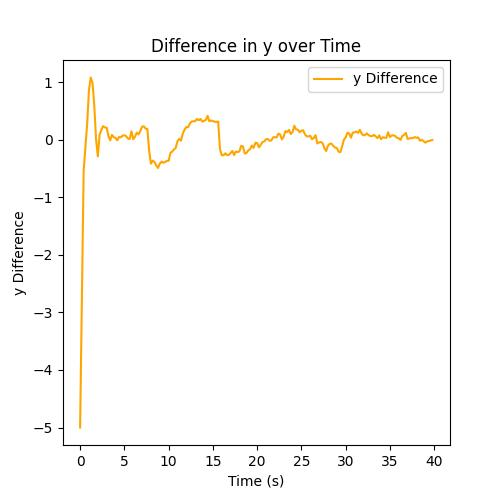
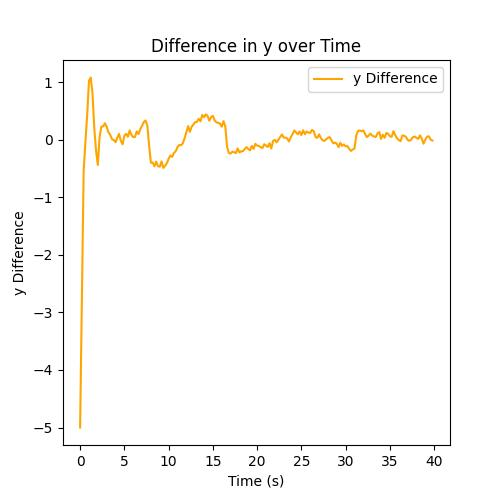
update kf_test

Changed region(s): [[0.3, 0.21, 0.87, 0.36], [0.15, 0.15, 0.3, 0.33]]

diff --git a/Test_func/test_kf_carla.py b/Test_func/test_kf_carla.py
@@ -1,5 +1,12 @@
-##change map to Town06
-#python config.py --map Town06
+## change map to Town06
+import subprocess
+# Command to run your script
+command = (
+    r'cd C:\Users\A490243\CARLA\CARLA_Latest\WindowsNoEditor\PythonAPI\util && '
+    r'python config.py --map Town06')
+# Run the command
+subprocess.run(command, shell=True)
+# ----------------- Importing Libraries ------------------------
 import time
 import numpy as np
 import sys
@@ -17,14 +24,22 @@ from util.utils import get_state, setup_carla_environment,plot_paths,plot_diff
 # ----------------- Carla Settings ------------------------
 #! set the initial position of the car and truck
 import carla
-car,truck = setup_carla_environment()
+car,truck = setup_carla_environment(Sameline_ACC=False)
 velocity1 = carla.Vector3D(10, 0, 0)
 velocity2 = carla.Vector3D(15, 0, 0)
+
+#get initial state of truck and car,x,y,psi,v, shown seoerately
+#! uncomment the following lines to get the initial state of the car and truck
+#------------------get the initial state of the car and truck---------------------
+# time.sleep(1)
+# truck_state = get_state(truck)
+# car_state = get_state(car)
+# print("truck_state is:","x:",truck_state[0],"y:",truck_state[1],"psi:",truck_state[2],"v:",truck_state[3])
+# print("car_state is:","x:",car_state[0],"y:",car_state[1],"psi:",car_state[2],"v:",car_state[3])
+# exit()
+#---------------------------------------------------------------------------------
 car.set_target_velocity(velocity2)
 car.apply_control(carla.VehicleControl(throttle=0.0, steer=0.5, brake=0))
-
-
-
 # System initialization 
 dt = 0.2
 N=10
@@ -39,7 +54,7 @@ F_x_ADV  = car_model.getIntegrator()
 vx_init_ego = 10   
 car_model.setInit([124,143.318],vx_init_ego)
 x_iter = DM(int(nx),1)
-#get initial state and input
+# get initial state and input
 x_iter[:],u_iter = car_model.getInit()
 
 # ----------------- Ego Vehicle obsver(kalman filter) Settings ------------------------
@@ -48,7 +63,7 @@ F,B=car_model.calculate_AB(dt,init_flag=1)
 G=np.eye(nx)*dt**2   #process noise matrix, x_iter=F@x_iter+B@u_iter+G@w
 H=np.eye(nx)   #measurement matrix, y=H@x_iter
 
-#initial state and control input
+# initial state and control input
 print(x_iter)
 x0=x_iter+5
 print(x0)
@@ -64,7 +79,7 @@ ekf=kalman_filter(F,B,H,x0,P0,Q0,R0)
 
 
 
-#list to store the true and estimated state
+# list to store the true and estimated state
 true_x = []
 true_x.append(float(x_iter[0]))
 true_y = []

diff --git a/util/utils.py b/util/utils.py
@@ -28,12 +28,16 @@ def get_state(vehicle):
 
     return np.array([[x, y, psi, v]]).T
 
-def setup_carla_environment():
+def setup_carla_environment(Sameline_ACC=True):
     """
     Sets up the CARLA environment by connecting to the server, 
     spawning vehicles, and setting their initial states.
     Returns the car and truck actors.
     """
+    '''
+    Sameline_ACC=TRUE: the car and truck are in the same lane, and the truck trakcing the car
+    Sameline_ACC=FALSE: the car and truck are in the different lane
+    '''
     client = carla.Client('localhost', 2000)
     world = client.get_world()
     bp_lib = world.get_blueprint_library()
@@ -42,17 +46,29 @@ def setup_carla_environment():
     for actor in world.get_actors().filter('vehicle.*'):
         actor.destroy()
 
-    # Spawn Tesla Model 3
-    car_bp = bp_lib.find('vehicle.tesla.model3')
-    car_spawn_point = carla.Transform(carla.Location(x=124, y=143.318146, z=0.3))
-    car = spawn_vehicle(world, car_bp, car_spawn_point)
+    if Sameline_ACC :
+        # Spawn Tesla Model 3
+        car_bp = bp_lib.find('vehicle.tesla.model3')
+        car_spawn_point = carla.Transform(carla.Location(x=124-100, y=143.318146, z=0.3))
+        car = spawn_vehicle(world, car_bp, car_spawn_point)
 
-    # Spawn Firetruck
-    truck_bp = bp_lib.find('vehicle.carlamotors.firetruck')
-    truck_spawn_point = carla.Transform(car_spawn_point.location + carla.Location(y=3.5, x=-100))
-    truck = spawn_vehicle(world, truck_bp, truck_spawn_point)
+        # Spawn Firetruck
+        truck_bp = bp_lib.find('vehicle.carlamotors.firetruck')
+        truck_spawn_point = carla.Transform(carla.Location(x=124-75, y=143.318146, z=0.3))
+        truck = spawn_vehicle(world, truck_bp, truck_spawn_point)
+        return car, truck
+    else:
+        # Spawn Tesla Model 3
+        car_bp = bp_lib.find('vehicle.tesla.model3')
+        car_spawn_point = carla.Transform(carla.Location(x=124, y=143.318146, z=0.3))
+        car = spawn_vehicle(world, car_bp, car_spawn_point)
 
-    return car, truck
+        # Spawn Firetruck
+        truck_bp = bp_lib.find('vehicle.carlamotors.firetruck')
+        truck_spawn_point = carla.Transform(car_spawn_point.location + carla.Location(y=3.5, x=-100))
+        truck = spawn_vehicle(world, truck_bp, truck_spawn_point)
+
+        return car, truck
 
 def spawn_vehicle(world, blueprint, spawn_point):
     """

diff --git a/Controller/simple_MPC.py b/Controller/simple_MPC.py
@@ -1,0 +1,49 @@
+# here is the simple MPC controller for the trailing vehicle
+# this file is used to test the acc controller
+import sys
+CARLA_PATH = 'C:\\Users\\A490243\\CARLA\\CARLA_Latest\\WindowsNoEditor\\PythonAPI\\carla'
+THESIS_PATH = 'C:\\Users\\A490243\\Desktop\\Master_Thesis'
+sys.path.extend([CARLA_PATH, THESIS_PATH])
+from casadi import *
+from  Autonomous_Truck_Sim.controllers import makeController, makeDecisionMaster
+from  Autonomous_Truck_Sim.scenarios import trailing
+from vehicleModel.vehicle_model import car_VehicleModel
+class trailing_controller:
+    """here is the simple MPC controller for the trailing vehicle
+    vehicle: the vehicle model class
+    N: the prediction horizon
+    opts: the options for the controller
+        {"version" : "trailing", "solver": "ipopt", "integrator":"rk"}
+    dt: the time step for the controller
+    """
+    def __init__(self,vehicle,N,opts,dt) -> None:
+        self.vehicle = vehicle
+        self.opts = opts
+        # Get constants
+        # self.Nveh = self.traffic.getDim()
+        self.N = N
+        self.vehWidth,_,_,_ = self.vehicle.getSize()
+        self.nx,self.nu,self.nrefx,self.nrefu = self.vehicle.getSystemDim()
+        print(self.nx,self.nu,self.nrefx,self.nrefu)
+        # self.roadMin, self.roadMax, self.laneCenters = self.scenario.getRoad()
+        self.opts = opts
+        #create Opti Stack
+        self.opti = Opti()
+        pass
+# System initialization 
+dt = 0.2                    # Simulation time step (Impacts traffic model accuracy)
+f_controller = 5            # Controller update frequency, i.e updates at each t = dt*f_controller
+N =  12                     # MPC Horizon length
+dt_MPC = dt*f_controller    # Controller time step
+# ----------------- Ego Vehicle Dynamics and Controller Settings ------------------------
+vehicleADV = car_VehicleModel(dt,N)
+
+vehWidth,vehLength,L_tract,L_trail = vehicleADV.getSize()
+nx,nu,nrefx,nrefu = vehicleADV.getSystemDim()
+
+# Integrator
+int_opt = 'rk'
+vehicleADV.integrator(int_opt,dt)
+F_x_ADV  = vehicleADV.getIntegrator()
+opts3 = {"version" : "trailing", "solver": "ipopt", "integrator":"rk"}
+MPC_trailing = trailing_controller(vehicleADV,N,opts3,dt_MPC)

diff --git a/Autonomous_Truck_Sim/controllers.py b/Autonomous_Truck_Sim/controllers.py
@@ -175,7 +175,7 @@ class makeController:
             self.opti.set_value(self.traffic_x,traffic_x)
             self.opti.set_value(self.traffic_y,traffic_y)
             self.opti.set_value(self.traffic_sign,traffic_sign)
-            self.opti.set_value(self.traffic_shift,traffic_shift)e
+            self.opti.set_value(self.traffic_shift,traffic_shift)
             self.opti.set_value(self.traffic_flip,traffic_flip)
             self.opti.set_value(self.x0,x_iter)
 

diff --git a/Autonomous_Truck_Sim/scenarios.py b/Autonomous_Truck_Sim/scenarios.py
@@ -59,7 +59,10 @@ class trailing:
         laneCenters = [self.laneWidth/2,self.laneWidth*3/2,-self.laneWidth*1/2]
 
         return roadMin, roadMax, laneCenters
-
+    #!!!!!!!!!!!!!!!!
+    #FIXME: Here, notice to change when implement in CARLA
+    #truck_state is: x: [24.] y: [146.81814575] psi: [0.] v: [0]
+    #!!!!!!!!!!!!!!!     
     def setEgoLane(self):
         x = self.vehicle.getPosition()
         self.egoPx = x[0]

diff --git a/Test_func/CARLA_ACC_TEST.py b/Test_func/CARLA_ACC_TEST.py
@@ -1,2 +1,10 @@
+## change map to Town06
+import subprocess
+# Command to run your script
+command = (
+    r'cd C:\Users\A490243\CARLA\CARLA_Latest\WindowsNoEditor\PythonAPI\util && '
+    r'python config.py --map Town06')
+# Run the command
+subprocess.run(command, shell=True)
 #! This file is useed to test the acc controller
 from casadi import *
